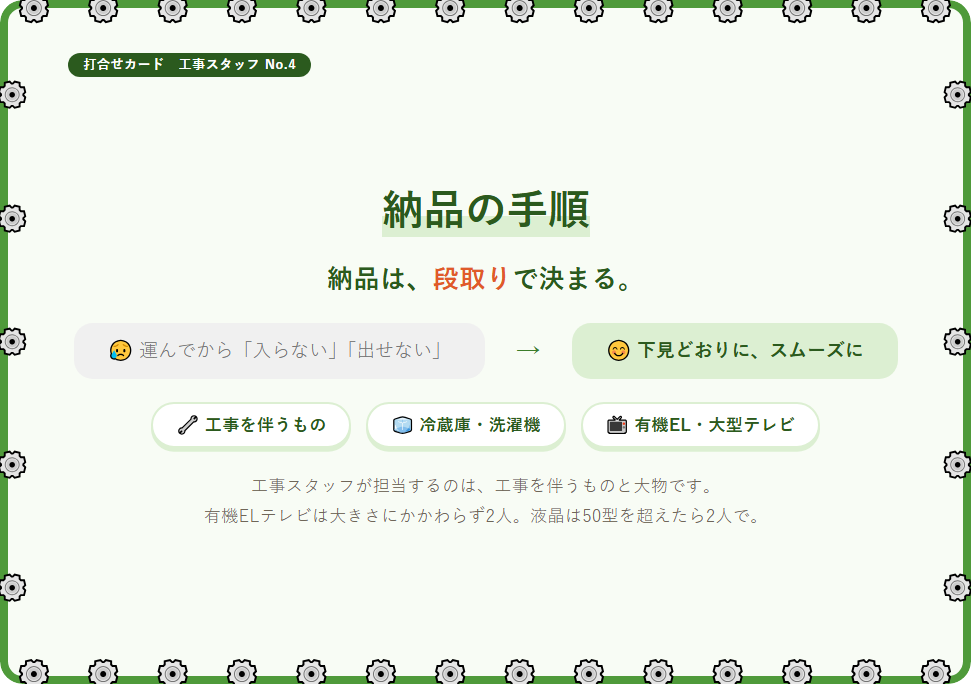
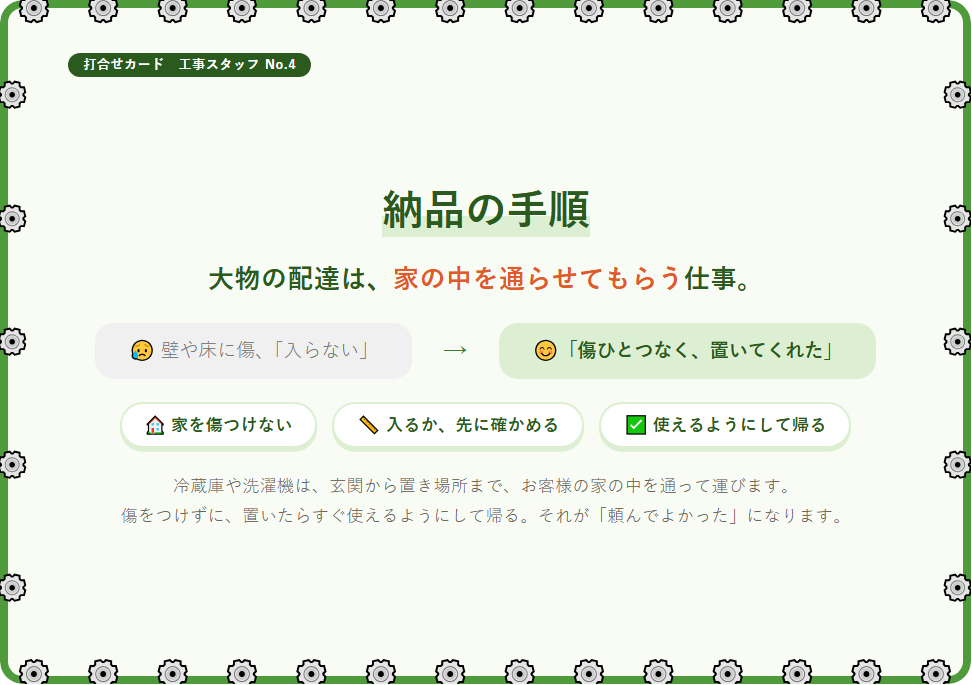
工事カードNo.1〜5（片付け・作業準備・納品・写真）を肝の形に
Claude-Session: https://claude.ai/code/session_01SZNrdcyrN7aKEt1o21LvYk

diff --git a/tools/cards-data.js b/tools/cards-data.js
@@ -383,45 +383,43 @@ module.exports = [
         vals:['🙋 受けた人が、最後まで','🔍 探す時間を、なくす','🤝 工事がすぐ出発できるように'] }
 },
 { no:1, who:'koji', title:'片付け　工具編',
-  why:{ msg:'片付けは、<b>次の工事の準備</b>。',
-        ng:'😥 なくなる・壊れる・錆びる', ok:'😊 次の現場で、すぐ使える',
-        chips:['🔍 数をそろえる','🧽 汚れと水気をふく','🔧 壊れたら、すぐ言う'],
-        one:'ゴミを捨てて終わり、ではありません。<br>道具がそろっていて、きれいで、すぐ使える。そこまでが片付けです。' },
-  how:{ h:'帰ったら、工具をこうする',
-        roles:[ {ic:'🧹',n:'片付け',t:'決まった場所に戻す。数がそろっているか確かめる',bg:'#dcefd2',k:'#2b5a1e'},
-                {ic:'🧽',n:'手入れ',t:'汚れと水気をふく。錆びる前に',bg:'#d9ebfa',k:'#164a7a'},
-                {ic:'🔧',n:'修理・補充',t:'なくした・壊れた・刃が切れないは、その日のうちに報告する',bg:'#fff1c2',k:'#7a4d10'} ] },
-  what:{ h:'毎日やること',
-        memo:['✅ すぐ使える状態にして終わり','腰袋も、車も、倉庫も同じ。'],
-        vals:['🔍 なくなる前に気づく','💧 錆びる前にふく','📣 壊れたら、その日に言う'] }
+  why:{ msg:'道具を大切にする人は、<b>お客様の家も大切にする</b>。',
+        ng:'😥 現場で「あれがない」「動かない」', ok:'😊 いつでも、すぐに、きちんと',
+        chips:['🧰 道具は仕事の相棒','⏱ お客様を待たせない','🛡 けがを防ぐ'],
+        one:'道具がそろっていれば、現場でお客様を待たせません。<br>手入れされた道具は、きれいな仕上がりと、けがのない仕事につながります。' },
+  how:{ h:'どう片付けたら、次の現場が喜ぶ？',
+        roles:[ {ic:'🔍',n:'なくなる前に気づく',t:'戻すときに数える。足りなければ、その日に',bg:'#d9ebfa',k:'#164a7a'},
+                {ic:'🧽',n:'錆びる前に手入れ',t:'汚れと水気をふく。充電しておく',bg:'#dcefd2',k:'#2b5a1e'},
+                {ic:'📣',n:'壊れたら、その日に言う',t:'だまって使い続けない。けがと失敗のもと',bg:'#fff1c2',k:'#7a4d10'} ] },
+  what:{ h:'することは',
+        memo:['📘 やり方は「片付け・工具のメンテナンス」ガイドへ','毎日の片付けと、毎週・毎月の手入れ。'],
+        vals:['✅ すぐ使える状態にして終わり','🚗 腰袋も、車も、倉庫も同じ','🙅 壊れたものは使わない'] }
 },
 { no:2, who:'koji', title:'片付け　材料編',
-  why:{ msg:'材料は、<b>使ったら補充</b>までが片付け。',
-        ng:'😥 使うときに足りなくて、慌てて手配', ok:'😊 いつも予備がある',
-        chips:['📦 減ったら補充','🔢 予備を切らさない','📝 なくなる前に頼む'],
-        one:'材料は、使えば減ります。<br>減ったその日に補充すれば、次の工事で慌てません。' },
-  how:{ h:'帰ったら、材料をこうする',
-        roles:[ {ic:'📦',n:'片付け',t:'残った材料を、決まった場所へ戻す',bg:'#dcefd2',k:'#2b5a1e'},
-                {ic:'🔢',n:'数える',t:'車と倉庫の残りを見る。予備はあるか',bg:'#d9ebfa',k:'#164a7a'},
-                {ic:'📝',n:'補充・発注',t:'倉庫から車へ補充。倉庫にもなければ、注文書を書く',bg:'#fff1c2',k:'#7a4d10'} ] },
-  what:{ h:'毎日やること',
-        memo:['✅ 減ったら、その日に補充して終わり','車も倉庫も、予備を切らさない。'],
-        vals:['🚗 車の中は、いつもそろっている','📦 倉庫の予備が減ったら、注文書を書く','⏰ 使う日に頼むのでは遅い'] }
+  why:{ msg:'材料がそろっていると、<b>1回で終わる</b>。',
+        ng:'😥「材料が足りないので、また来ます」', ok:'😊「1回で全部終わった」',
+        chips:['📦 減ったら補充','⏰ 出直しをなくす','🤝 お客様の時間を大切に'],
+        one:'材料が足りなくて出直すと、お客様はもう一度予定を空けて待つことになります。<br>補充までが片付け。それが、お客様の時間を守ることになります。' },
+  how:{ h:'どう片付けたら、出直しがなくなる？',
+        roles:[ {ic:'📦',n:'使ったら戻して数える',t:'車と倉庫、どちらにいくつあるか',bg:'#d9ebfa',k:'#164a7a'},
+                {ic:'🔢',n:'予備を切らさない',t:'「最後の1つ」を使ったら、すぐ補充',bg:'#dcefd2',k:'#2b5a1e'},
+                {ic:'📝',n:'なくなる前に頼む',t:'使う日に頼むのでは遅い。注文書はその日に',bg:'#fff1c2',k:'#7a4d10'} ] },
+  what:{ h:'することは',
+        memo:['📘 やり方は「片付け・工具のメンテナンス」ガイドへ','材料の片付けと、補充・発注。'],
+        vals:['✅ 減ったら、その日に補充して終わり','🚗 車の中は、いつもそろっている','📝 倉庫になければ注文書'] }
 },
 { no:3, who:'koji', title:'作業準備',
-  why:{ msg:'段取り八分。<b>準備</b>で、仕上がりが決まる。',
-        ng:'😥 始めてから「あれがない」', ok:'😊 準備ができて、作業がスムーズ',
-        chips:['👀 確かめる','🧰 そろえる','🛡 養生する','🧹 掃除する'],
-        one:'作業を始める前の準備で、仕上がりと時間が決まります。<br>養生も掃除も、作業準備のひとつです。' },
-  how:{ h:'始める前に、この5つ',
-        roles:[ {ic:'📦',n:'付属品の確認',t:'箱を開けて、付属品がそろっているか',bg:'#fde2cc',k:'#7a3a0e'},
-                {ic:'👀',n:'確かめる',t:'作業の場所・内容・通り道を、お客様と確かめる',bg:'#d9ebfa',k:'#164a7a'},
-                {ic:'🧰',n:'そろえる',t:'使う道具と材料を、作業場所の近くにそろえる',bg:'#fff1c2',k:'#7a4d10'},
-                {ic:'🛡',n:'養生する',t:'床・角・ドア枠・家具を、マットや毛布で守る',bg:'#dcefd2',k:'#2b5a1e'},
-                {ic:'🧹',n:'掃除する',t:'作業場所を整えてから始める。終わったら元どおりに',bg:'#e8dcf7',k:'#4a2a78'} ] },
-  what:{ h:'毎回やること',
-        memo:['💬 始める前に、ひと声','「床と角を、先に養生しますね」'],
-        vals:['🚗 車を降りる前に、段取りを決める','📦 何度も車に取りに戻らない','✨ 終わったら、来たときより、きれいに'] }
+  why:{ msg:'始める前のひと声が、<b>お客様の安心</b>をつくる。',
+        ng:'😥 いきなり始めて、家具に傷', ok:'😊「ていねいな人が来てくれた」',
+        chips:['🏠 よその家に入らせてもらう','🛡 家を守ってから始める','🙂 最初の印象が決まる'],
+        one:'知らない人が家に入るのは、お客様にとって緊張することです。<br>最初に今日のことを話して、家を守る準備をすると、安心して任せてもらえます。' },
+  how:{ h:'どう始めたら、安心してもらえる？',
+        roles:[ {ic:'🗣',n:'先に話す',t:'今日やること、どのくらいかかるか、どこを通るか',bg:'#d9ebfa',k:'#164a7a'},
+                {ic:'🛡',n:'家を守ってから始める',t:'床・角・家具を養生。「先に養生しますね」とひと声',bg:'#dcefd2',k:'#2b5a1e'},
+                {ic:'🚗',n:'段取りを決めてから入る',t:'何度も出入りしない。玄関の開け閉めもお客様の負担',bg:'#fff1c2',k:'#7a4d10'} ] },
+  what:{ h:'することは',
+        memo:['📘 やり方は「作業準備」ガイドと、各工事の手順書へ','準備編（確かめること・持ち物・現場に着いたら）。'],
+        vals:['💬 始める前に、ひと声','📦 何度も車に取りに戻らない','✨ 終わったら、来たときより、きれいに'] }
 },
 { no:3, who:'himawari', title:'保証切れ前訪問',
   why:{ msg:'保証が切れる前に、<b>ハガキを届ける</b>。',
@@ -659,21 +657,17 @@ module.exports = [
         vals:['📦 付属品は、庫内や扉の中まで見て渡す','🗑 古いものを先に片付ける','🔥 まわりにすき間をあける（熱がこもらないように）','✅ その場で一度動かしてみる'] }
 },
 { no:4, who:'koji', title:'納品の手順',
-  why:{ msg:'納品は、<b>段取り</b>で決まる。',
-        ng:'😥 運んでから「入らない」「出せない」', ok:'😊 下見どおりに、スムーズに',
-        chips:['🔧 工事を伴うもの','🧊 冷蔵庫・洗濯機','📺 有機EL・大型テレビ'],
-        one:'工事スタッフが担当するのは、工事を伴うものと大物です。<br>有機ELテレビは大きさにかかわらず2人。液晶は50型を超えたら2人で。' },
-  how:{ h:'納品の手順',
-        roles:[ {ic:'📦',n:'付属品の確認',t:'箱を開けて、付属品がそろっているか',bg:'#fde2cc',k:'#7a3a0e'},
-                {ic:'📏',n:'搬入経路の確認',t:'通路・ドア・階段の幅と、段差を測る',bg:'#d9ebfa',k:'#164a7a'},
-                {ic:'🛡',n:'養生',t:'玄関から設置場所まで、床と角を守る',bg:'#dcefd2',k:'#2b5a1e'},
-                {ic:'🗑',n:'先に搬出',t:'古いものを先に外して、運び出す',bg:'#fff1c2',k:'#7a4d10'},
-                {ic:'🚚',n:'搬入・設置',t:'水平・すき間・接続を確かめる',bg:'#e8dcf7',k:'#4a2a78'},
-                {ic:'✅',n:'動作確認・取扱説明',t:'一緒に一度動かして、よく使うところを伝える',bg:'#fde2cc',k:'#7a3a0e'},
-                {ic:'🧹',n:'片付け',t:'養生を外して、来たときよりきれいに',bg:'#d9ebfa',k:'#164a7a'} ] },
-  what:{ h:'毎回やること',
-        memo:['📞 置き場所と通り道を先に聞く','測れるときは、下見で測っておく。'],
-        vals:['👥 2人で運ぶものは、2人で伺う','🗑 引き取りの有無を、先に確かめる','💬 動かす家具は、先にひと声'] }
+  why:{ msg:'大物の配達は、<b>家の中を通らせてもらう</b>仕事。',
+        ng:'😥 壁や床に傷、「入らない」', ok:'😊「傷ひとつなく、置いてくれた」',
+        chips:['🏠 家を傷つけない','📏 入るか、先に確かめる','✅ 使えるようにして帰る'],
+        one:'冷蔵庫や洗濯機は、玄関から置き場所まで、お客様の家の中を通って運びます。<br>傷をつけずに、置いたらすぐ使えるようにして帰る。それが「頼んでよかった」になります。' },
+  how:{ h:'どう運んだら、喜ばれる？',
+        roles:[ {ic:'📏',n:'測ってから運ぶ',t:'通路・ドア・階段。運んでから「入らない」にしない',bg:'#d9ebfa',k:'#164a7a'},
+                {ic:'🛡',n:'通り道を守る',t:'玄関から置き場所まで養生。古いものは先に出す',bg:'#dcefd2',k:'#2b5a1e'},
+                {ic:'✅',n:'使えるようにして帰る',t:'置いて終わりではなく、動かして、使い方まで',bg:'#fff1c2',k:'#7a4d10'} ] },
+  what:{ h:'することは',
+        memo:['📘 やり方は家電ごとの配達ガイドへ','テレビ・冷蔵庫・洗濯機・テレビ台。'],
+        vals:['👥 2人で運ぶものは、2人で','🗑 引き取りを先に確かめる','💬 動かす家具は、先にひと声'] }
 },
 { no:2, who:'service', title:'納品の手順',
   why:{ msg:'1人で運べるものも、<b>段取り</b>は同じ。',
@@ -1106,17 +1100,16 @@ module.exports = [
                  {t:'📋 持ち帰ること',c:'#b33',items:['本体の故障 → メーカー修理か買い替えの見積','10年以上なら、買い替えの話も']} ] }
 },
 { no:5, who:'koji', title:'写真の撮り方',
-  why:{ msg:'写真は、<b>あとで見るため</b>に撮る。',
-        ng:'😥 完成だけで、中がわからない', ok:'😊 あとで見ても、全部わかる',
-        chips:['📷 作業前','📷 途中','📷 完了'],
-        one:'壁の中や天井裏は、工事が終わると見えなくなります。<br>次に伺う人や、修理のときのために、途中も残しておきます。' },
-  how:{ h:'撮るところ',
-        roles:[ {ic:'🏠',n:'作業前',t:'設置場所・古い機器・まわりの様子',bg:'#d9ebfa',k:'#164a7a'},
-                {ic:'🔧',n:'途中',t:'配線・配管・接続部など、終わると見えなくなるところ',bg:'#dcefd2',k:'#2b5a1e'},
-                {ic:'✅',n:'完了',t:'仕上がりを、正面と横から',bg:'#fff1c2',k:'#7a4d10'},
-                {ic:'🏷',n:'型番',t:'新しい機器と、外した機器の銘板',bg:'#e8dcf7',k:'#4a2a78'} ] },
-  what:{ h:'撮るときは',
-        memo:['📱 日報に写真をつけて送る','タグを合わせておくと、あとで探しやすい。'],
-        vals:['📐 全体と近く、両方撮る','💡 暗いところは、ライトで照らす','🙏 お客様の顔や持ち物は、写さないように'] }
+  why:{ msg:'写真は、<b>その家の記録</b>。次に伺う人への手紙。',
+        ng:'😥「前はどうなってた？」が分からない', ok:'😊「写真があるから、すぐ分かる」',
+        chips:['🔁 次に伺う人のために','🔧 修理のときに','🤝 お客様の安心'],
+        one:'壁の中や天井裏は、工事が終わると見えなくなります。<br>写真があれば、何年たっても、だれが伺っても、その家のことが分かります。' },
+  how:{ h:'どう撮ったら、あとで役に立つ？',
+        roles:[ {ic:'📷',n:'見えなくなるところを残す',t:'配線・配管・つなぎ目。終わったら見えないところ',bg:'#d9ebfa',k:'#164a7a'},
+                {ic:'🏷',n:'型番を残す',t:'新しい機器と、外した機器の銘板',bg:'#dcefd2',k:'#2b5a1e'},
+                {ic:'🙏',n:'お客様のくらしは写さない',t:'顔・持ち物・部屋の様子は写さない',bg:'#fff1c2',k:'#7a4d10'} ] },
+  what:{ h:'することは',
+        memo:['📘 やり方は「写真の撮り方」ガイドへ','作業前・途中・完了・型番。'],
+        vals:['📐 全体と近く、両方撮る','💡 暗いところはライトで','📱 業務日報につけて送る'] }
 }
 ];

diff --git a/card-koji-4.html b/card-koji-4.html
@@ -6,7 +6,7 @@
 <title>打合せカード4 納品の手順｜ヤハタ電機商会</title>
 <meta property="og:type" content="website">
 <meta property="og:title" content="工事スタッフカード　納品の手順">
-<meta property="og:description" content="納品は、段取りで決まる。">
+<meta property="og:description" content="大物の配達は、家の中を通らせてもらう仕事。">
 <meta property="og:image" content="https://yahatadennki.github.io/report/img/card-koji-4.png">
 <meta property="og:url" content="https://yahatadennki.github.io/report/card-koji-4.html">
 <meta name="twitter:card" content="summary_large_image">
@@ -101,10 +101,10 @@
   <div class="top"><span class="no">打合せカード　工事スタッフ No.4</span><span></span></div>
   <div class="front">
     <h1><em>納品の手順</em></h1>
-    <p class="msg">納品は、<b>段取り</b>で決まる。</p>
-    <div class="vs"><div class="ng">😥 運んでから「入らない」「出せない」</div><div class="ar">→</div><div class="ok">😊 下見どおりに、スムーズに</div></div>
-    <div class="chips"><span>🔧 工事を伴うもの</span><span>🧊 冷蔵庫・洗濯機</span><span>📺 有機EL・大型テレビ</span></div>
-    <p class="one">工事スタッフが担当するのは、工事を伴うものと大物です。<br>有機ELテレビは大きさにかかわらず2人。液晶は50型を超えたら2人で。</p>
+    <p class="msg">大物の配達は、<b>家の中を通らせてもらう</b>仕事。</p>
+    <div class="vs"><div class="ng">😥 壁や床に傷、「入らない」</div><div class="ar">→</div><div class="ok">😊「傷ひとつなく、置いてくれた」</div></div>
+    <div class="chips"><span>🏠 家を傷つけない</span><span>📏 入るか、先に確かめる</span><span>✅ 使えるようにして帰る</span></div>
+    <p class="one">冷蔵庫や洗濯機は、玄関から置き場所まで、お客様の家の中を通って運びます。<br>傷をつけずに、置いたらすぐ使えるようにして帰る。それが「頼んでよかった」になります。</p>
   </div>
 </div>
 
@@ -118,14 +118,14 @@
   <div class="top"><span class="no">打合せカード　工事スタッフ No.4　納品の手順</span><span></span></div>
   <div class="back">
     <div class="box">
-      <h2>納品の手順</h2>
-      <div class="roles sm"><div class="role" style="--rc:#fde2cc;--rk:#7a3a0e"><span class="e">📦</span><div><div class="n">付属品の確認</div><div class="x">箱を開けて、付属品がそろっているか</div></div></div><div class="role" style="--rc:#d9ebfa;--rk:#164a7a"><span class="e">📏</span><div><div class="n">搬入経路の確認</div><div class="x">通路・ドア・階段の幅と、段差を測る</div></div></div><div class="role" style="--rc:#dcefd2;--rk:#2b5a1e"><span class="e">🛡</span><div><div class="n">養生</div><div class="x">玄関から設置場所まで、床と角を守る</div></div></div><div class="role" style="--rc:#fff1c2;--rk:#7a4d10"><span class="e">🗑</span><div><div class="n">先に搬出</div><div class="x">古いものを先に外して、運び出す</div></div></div><div class="role" style="--rc:#e8dcf7;--rk:#4a2a78"><span class="e">🚚</span><div><div class="n">搬入・設置</div><div class="x">水平・すき間・接続を確かめる</div></div></div><div class="role" style="--rc:#fde2cc;--rk:#7a3a0e"><span class="e">✅</span><div><div class="n">動作確認・取扱説明</div><div class="x">一緒に一度動かして、よく使うところを伝える</div></div></div><div class="role" style="--rc:#d9ebfa;--rk:#164a7a"><span class="e">🧹</span><div><div class="n">片付け</div><div class="x">養生を外して、来たときよりきれいに</div></div></div></div>
+      <h2>どう運んだら、喜ばれる？</h2>
+      <div class="roles"><div class="role" style="--rc:#d9ebfa;--rk:#164a7a"><span class="e">📏</span><div><div class="n">測ってから運ぶ</div><div class="x">通路・ドア・階段。運んでから「入らない」にしない</div></div></div><div class="role" style="--rc:#dcefd2;--rk:#2b5a1e"><span class="e">🛡</span><div><div class="n">通り道を守る</div><div class="x">玄関から置き場所まで養生。古いものは先に出す</div></div></div><div class="role" style="--rc:#fff1c2;--rk:#7a4d10"><span class="e">✅</span><div><div class="n">使えるようにして帰る</div><div class="x">置いて終わりではなく、動かして、使い方まで</div></div></div></div>
 
     </div>
     <div class="box">
-      <h2>毎回やること</h2>
-      <div class="memo"><b>📞 置き場所と通り道を先に聞く</b><p>測れるときは、下見で測っておく。</p></div>
-      <ul class="vals"><li>👥 2人で運ぶものは、2人で伺う</li><li>🗑 引き取りの有無を、先に確かめる</li><li>💬 動かす家具は、先にひと声</li></ul>
+      <h2>することは</h2>
+      <div class="memo"><b>📘 やり方は家電ごとの配達ガイドへ</b><p>テレビ・冷蔵庫・洗濯機・テレビ台。</p></div>
+      <ul class="vals"><li>👥 2人で運ぶものは、2人で</li><li>🗑 引き取りを先に確かめる</li><li>💬 動かす家具は、先にひと声</li></ul>
 
     </div>
   </div>

diff --git a/card-koji-3.html b/card-koji-3.html
@@ -6,7 +6,7 @@
 <title>打合せカード3 作業準備｜ヤハタ電機商会</title>
 <meta property="og:type" content="website">
 <meta property="og:title" content="工事スタッフカード　作業準備">
-<meta property="og:description" content="段取り八分。準備で、仕上がりが決まる。">
+<meta property="og:description" content="始める前のひと声が、お客様の安心をつくる。">
 <meta property="og:image" content="https://yahatadennki.github.io/report/img/card-koji-3.png">
 <meta property="og:url" content="https://yahatadennki.github.io/report/card-koji-3.html">
 <meta name="twitter:card" content="summary_large_image">
@@ -101,10 +101,10 @@
   <div class="top"><span class="no">打合せカード　工事スタッフ No.3</span><span></span></div>
   <div class="front">
     <h1><em>作業準備</em></h1>
-    <p class="msg">段取り八分。<b>準備</b>で、仕上がりが決まる。</p>
-    <div class="vs"><div class="ng">😥 始めてから「あれがない」</div><div class="ar">→</div><div class="ok">😊 準備ができて、作業がスムーズ</div></div>
-    <div class="chips"><span>👀 確かめる</span><span>🧰 そろえる</span><span>🛡 養生する</span><span>🧹 掃除する</span></div>
-    <p class="one">作業を始める前の準備で、仕上がりと時間が決まります。<br>養生も掃除も、作業準備のひとつです。</p>
+    <p class="msg">始める前のひと声が、<b>お客様の安心</b>をつくる。</p>
+    <div class="vs"><div class="ng">😥 いきなり始めて、家具に傷</div><div class="ar">→</div><div class="ok">😊「ていねいな人が来てくれた」</div></div>
+    <div class="chips"><span>🏠 よその家に入らせてもらう</span><span>🛡 家を守ってから始める</span><span>🙂 最初の印象が決まる</span></div>
+    <p class="one">知らない人が家に入るのは、お客様にとって緊張することです。<br>最初に今日のことを話して、家を守る準備をすると、安心して任せてもらえます。</p>
   </div>
 </div>
 
@@ -118,14 +118,14 @@
   <div class="top"><span class="no">打合せカード　工事スタッフ No.3　作業準備</span><span></span></div>
   <div class="back">
     <div class="box">
-      <h2>始める前に、この5つ</h2>
-      <div class="roles sm"><div class="role" style="--rc:#fde2cc;--rk:#7a3a0e"><span class="e">📦</span><div><div class="n">付属品の確認</div><div class="x">箱を開けて、付属品がそろっているか</div></div></div><div class="role" style="--rc:#d9ebfa;--rk:#164a7a"><span class="e">👀</span><div><div class="n">確かめる</div><div class="x">作業の場所・内容・通り道を、お客様と確かめる</div></div></div><div class="role" style="--rc:#fff1c2;--rk:#7a4d10"><span class="e">🧰</span><div><div class="n">そろえる</div><div class="x">使う道具と材料を、作業場所の近くにそろえる</div></div></div><div class="role" style="--rc:#dcefd2;--rk:#2b5a1e"><span class="e">🛡</span><div><div class="n">養生する</div><div class="x">床・角・ドア枠・家具を、マットや毛布で守る</div></div></div><div class="role" style="--rc:#e8dcf7;--rk:#4a2a78"><span class="e">🧹</span><div><div class="n">掃除する</div><div class="x">作業場所を整えてから始める。終わったら元どおりに</div></div></div></div>
+      <h2>どう始めたら、安心してもらえる？</h2>
+      <div class="roles"><div class="role" style="--rc:#d9ebfa;--rk:#164a7a"><span class="e">🗣</span><div><div class="n">先に話す</div><div class="x">今日やること、どのくらいかかるか、どこを通るか</div></div></div><div class="role" style="--rc:#dcefd2;--rk:#2b5a1e"><span class="e">🛡</span><div><div class="n">家を守ってから始める</div><div class="x">床・角・家具を養生。「先に養生しますね」とひと声</div></div></div><div class="role" style="--rc:#fff1c2;--rk:#7a4d10"><span class="e">🚗</span><div><div class="n">段取りを決めてから入る</div><div class="x">何度も出入りしない。玄関の開け閉めもお客様の負担</div></div></div></div>
 
     </div>
     <div class="box">
-      <h2>毎回やること</h2>
-      <div class="memo"><b>💬 始める前に、ひと声</b><p>「床と角を、先に養生しますね」</p></div>
-      <ul class="vals"><li>🚗 車を降りる前に、段取りを決める</li><li>📦 何度も車に取りに戻らない</li><li>✨ 終わったら、来たときより、きれいに</li></ul>
+      <h2>することは</h2>
+      <div class="memo"><b>📘 やり方は「作業準備」ガイドと、各工事の手順書へ</b><p>準備編（確かめること・持ち物・現場に着いたら）。</p></div>
+      <ul class="vals"><li>💬 始める前に、ひと声</li><li>📦 何度も車に取りに戻らない</li><li>✨ 終わったら、来たときより、きれいに</li></ul>
 
     </div>
   </div>

diff --git a/card-koji-5.html b/card-koji-5.html
@@ -6,7 +6,7 @@
 <title>打合せカード5 写真の撮り方｜ヤハタ電機商会</title>
 <meta property="og:type" content="website">
 <meta property="og:title" content="工事スタッフカード　写真の撮り方">
-<meta property="og:description" content="写真は、あとで見るために撮る。">
+<meta property="og:description" content="写真は、その家の記録。次に伺う人への手紙。">
 <meta property="og:image" content="https://yahatadennki.github.io/report/img/card-koji-5.png">
 <meta property="og:url" content="https://yahatadennki.github.io/report/card-koji-5.html">
 <meta name="twitter:card" content="summary_large_image">
@@ -101,10 +101,10 @@
   <div class="top"><span class="no">打合せカード　工事スタッフ No.5</span><span></span></div>
   <div class="front">
     <h1><em>写真の撮り方</em></h1>
-    <p class="msg">写真は、<b>あとで見るため</b>に撮る。</p>
-    <div class="vs"><div class="ng">😥 完成だけで、中がわからない</div><div class="ar">→</div><div class="ok">😊 あとで見ても、全部わかる</div></div>
-    <div class="chips"><span>📷 作業前</span><span>📷 途中</span><span>📷 完了</span></div>
-    <p class="one">壁の中や天井裏は、工事が終わると見えなくなります。<br>次に伺う人や、修理のときのために、途中も残しておきます。</p>
+    <p class="msg">写真は、<b>その家の記録</b>。次に伺う人への手紙。</p>
+    <div class="vs"><div class="ng">😥「前はどうなってた？」が分からない</div><div class="ar">→</div><div class="ok">😊「写真があるから、すぐ分かる」</div></div>
+    <div class="chips"><span>🔁 次に伺う人のために</span><span>🔧 修理のときに</span><span>🤝 お客様の安心</span></div>
+    <p class="one">壁の中や天井裏は、工事が終わると見えなくなります。<br>写真があれば、何年たっても、だれが伺っても、その家のことが分かります。</p>
   </div>
 </div>
 
@@ -118,14 +118,14 @@
   <div class="top"><span class="no">打合せカード　工事スタッフ No.5　写真の撮り方</span><span></span></div>
   <div class="back">
     <div class="box">
-      <h2>撮るところ</h2>
-      <div class="roles"><div class="role" style="--rc:#d9ebfa;--rk:#164a7a"><span class="e">🏠</span><div><div class="n">作業前</div><div class="x">設置場所・古い機器・まわりの様子</div></div></div><div class="role" style="--rc:#dcefd2;--rk:#2b5a1e"><span class="e">🔧</span><div><div class="n">途中</div><div class="x">配線・配管・接続部など、終わると見えなくなるところ</div></div></div><div class="role" style="--rc:#fff1c2;--rk:#7a4d10"><span class="e">✅</span><div><div class="n">完了</div><div class="x">仕上がりを、正面と横から</div></div></div><div class="role" style="--rc:#e8dcf7;--rk:#4a2a78"><span class="e">🏷</span><div><div class="n">型番</div><div class="x">新しい機器と、外した機器の銘板</div></div></div></div>
+      <h2>どう撮ったら、あとで役に立つ？</h2>
+      <div class="roles"><div class="role" style="--rc:#d9ebfa;--rk:#164a7a"><span class="e">📷</span><div><div class="n">見えなくなるところを残す</div><div class="x">配線・配管・つなぎ目。終わったら見えないところ</div></div></div><div class="role" style="--rc:#dcefd2;--rk:#2b5a1e"><span class="e">🏷</span><div><div class="n">型番を残す</div><div class="x">新しい機器と、外した機器の銘板</div></div></div><div class="role" style="--rc:#fff1c2;--rk:#7a4d10"><span class="e">🙏</span><div><div class="n">お客様のくらしは写さない</div><div class="x">顔・持ち物・部屋の様子は写さない</div></div></div></div>
 
     </div>
     <div class="box">
-      <h2>撮るときは</h2>
-      <div class="memo"><b>📱 日報に写真をつけて送る</b><p>タグを合わせておくと、あとで探しやすい。</p></div>
-      <ul class="vals"><li>📐 全体と近く、両方撮る</li><li>💡 暗いところは、ライトで照らす</li><li>🙏 お客様の顔や持ち物は、写さないように</li></ul>
+      <h2>することは</h2>
+      <div class="memo"><b>📘 やり方は「写真の撮り方」ガイドへ</b><p>作業前・途中・完了・型番。</p></div>
+      <ul class="vals"><li>📐 全体と近く、両方撮る</li><li>💡 暗いところはライトで</li><li>📱 業務日報につけて送る</li></ul>
 
     </div>
   </div>

diff --git a/card-koji-1.html b/card-koji-1.html
@@ -6,7 +6,7 @@
 <title>打合せカード1 片付け　工具編｜ヤハタ電機商会</title>
 <meta property="og:type" content="website">
 <meta property="og:title" content="工事スタッフカード　片付け　工具編">
-<meta property="og:description" content="片付けは、次の工事の準備。">
+<meta property="og:description" content="道具を大切にする人は、お客様の家も大切にする。">
 <meta property="og:image" content="https://yahatadennki.github.io/report/img/card-koji-1.png">
 <meta property="og:url" content="https://yahatadennki.github.io/report/card-koji-1.html">
 <meta name="twitter:card" content="summary_large_image">
@@ -101,10 +101,10 @@
   <div class="top"><span class="no">打合せカード　工事スタッフ No.1</span><span></span></div>
   <div class="front">
     <h1><em>片付け　工具編</em></h1>
-    <p class="msg">片付けは、<b>次の工事の準備</b>。</p>
-    <div class="vs"><div class="ng">😥 なくなる・壊れる・錆びる</div><div class="ar">→</div><div class="ok">😊 次の現場で、すぐ使える</div></div>
-    <div class="chips"><span>🔍 数をそろえる</span><span>🧽 汚れと水気をふく</span><span>🔧 壊れたら、すぐ言う</span></div>
-    <p class="one">ゴミを捨てて終わり、ではありません。<br>道具がそろっていて、きれいで、すぐ使える。そこまでが片付けです。</p>
+    <p class="msg">道具を大切にする人は、<b>お客様の家も大切にする</b>。</p>
+    <div class="vs"><div class="ng">😥 現場で「あれがない」「動かない」</div><div class="ar">→</div><div class="ok">😊 いつでも、すぐに、きちんと</div></div>
+    <div class="chips"><span>🧰 道具は仕事の相棒</span><span>⏱ お客様を待たせない</span><span>🛡 けがを防ぐ</span></div>
+    <p class="one">道具がそろっていれば、現場でお客様を待たせません。<br>手入れされた道具は、きれいな仕上がりと、けがのない仕事につながります。</p>
   </div>
 </div>
 
@@ -118,14 +118,14 @@
   <div class="top"><span class="no">打合せカード　工事スタッフ No.1　片付け　工具編</span><span></span></div>
   <div class="back">
     <div class="box">
-      <h2>帰ったら、工具をこうする</h2>
-      <div class="roles"><div class="role" style="--rc:#dcefd2;--rk:#2b5a1e"><span class="e">🧹</span><div><div class="n">片付け</div><div class="x">決まった場所に戻す。数がそろっているか確かめる</div></div></div><div class="role" style="--rc:#d9ebfa;--rk:#164a7a"><span class="e">🧽</span><div><div class="n">手入れ</div><div class="x">汚れと水気をふく。錆びる前に</div></div></div><div class="role" style="--rc:#fff1c2;--rk:#7a4d10"><span class="e">🔧</span><div><div class="n">修理・補充</div><div class="x">なくした・壊れた・刃が切れないは、その日のうちに報告する</div></div></div></div>
+      <h2>どう片付けたら、次の現場が喜ぶ？</h2>
+      <div class="roles"><div class="role" style="--rc:#d9ebfa;--rk:#164a7a"><span class="e">🔍</span><div><div class="n">なくなる前に気づく</div><div class="x">戻すときに数える。足りなければ、その日に</div></div></div><div class="role" style="--rc:#dcefd2;--rk:#2b5a1e"><span class="e">🧽</span><div><div class="n">錆びる前に手入れ</div><div class="x">汚れと水気をふく。充電しておく</div></div></div><div class="role" style="--rc:#fff1c2;--rk:#7a4d10"><span class="e">📣</span><div><div class="n">壊れたら、その日に言う</div><div class="x">だまって使い続けない。けがと失敗のもと</div></div></div></div>
 
     </div>
     <div class="box">
-      <h2>毎日やること</h2>
-      <div class="memo"><b>✅ すぐ使える状態にして終わり</b><p>腰袋も、車も、倉庫も同じ。</p></div>
-      <ul class="vals"><li>🔍 なくなる前に気づく</li><li>💧 錆びる前にふく</li><li>📣 壊れたら、その日に言う</li></ul>
+      <h2>することは</h2>
+      <div class="memo"><b>📘 やり方は「片付け・工具のメンテナンス」ガイドへ</b><p>毎日の片付けと、毎週・毎月の手入れ。</p></div>
+      <ul class="vals"><li>✅ すぐ使える状態にして終わり</li><li>🚗 腰袋も、車も、倉庫も同じ</li><li>🙅 壊れたものは使わない</li></ul>
 
     </div>
   </div>

diff --git a/card-koji-2.html b/card-koji-2.html
@@ -6,7 +6,7 @@
 <title>打合せカード2 片付け　材料編｜ヤハタ電機商会</title>
 <meta property="og:type" content="website">
 <meta property="og:title" content="工事スタッフカード　片付け　材料編">
-<meta property="og:description" content="材料は、使ったら補充までが片付け。">
+<meta property="og:description" content="材料がそろっていると、1回で終わる。">
 <meta property="og:image" content="https://yahatadennki.github.io/report/img/card-koji-2.png">
 <meta property="og:url" content="https://yahatadennki.github.io/report/card-koji-2.html">
 <meta name="twitter:card" content="summary_large_image">
@@ -101,10 +101,10 @@
   <div class="top"><span class="no">打合せカード　工事スタッフ No.2</span><span></span></div>
   <div class="front">
     <h1><em>片付け　材料編</em></h1>
-    <p class="msg">材料は、<b>使ったら補充</b>までが片付け。</p>
-    <div class="vs"><div class="ng">😥 使うときに足りなくて、慌てて手配</div><div class="ar">→</div><div class="ok">😊 いつも予備がある</div></div>
-    <div class="chips"><span>📦 減ったら補充</span><span>🔢 予備を切らさない</span><span>📝 なくなる前に頼む</span></div>
-    <p class="one">材料は、使えば減ります。<br>減ったその日に補充すれば、次の工事で慌てません。</p>
+    <p class="msg">材料がそろっていると、<b>1回で終わる</b>。</p>
+    <div class="vs"><div class="ng">😥「材料が足りないので、また来ます」</div><div class="ar">→</div><div class="ok">😊「1回で全部終わった」</div></div>
+    <div class="chips"><span>📦 減ったら補充</span><span>⏰ 出直しをなくす</span><span>🤝 お客様の時間を大切に</span></div>
+    <p class="one">材料が足りなくて出直すと、お客様はもう一度予定を空けて待つことになります。<br>補充までが片付け。それが、お客様の時間を守ることになります。</p>
   </div>
 </div>
 
@@ -118,14 +118,14 @@
   <div class="top"><span class="no">打合せカード　工事スタッフ No.2　片付け　材料編</span><span></span></div>
   <div class="back">
     <div class="box">
-      <h2>帰ったら、材料をこうする</h2>
-      <div class="roles"><div class="role" style="--rc:#dcefd2;--rk:#2b5a1e"><span class="e">📦</span><div><div class="n">片付け</div><div class="x">残った材料を、決まった場所へ戻す</div></div></div><div class="role" style="--rc:#d9ebfa;--rk:#164a7a"><span class="e">🔢</span><div><div class="n">数える</div><div class="x">車と倉庫の残りを見る。予備はあるか</div></div></div><div class="role" style="--rc:#fff1c2;--rk:#7a4d10"><span class="e">📝</span><div><div class="n">補充・発注</div><div class="x">倉庫から車へ補充。倉庫にもなければ、注文書を書く</div></div></div></div>
+      <h2>どう片付けたら、出直しがなくなる？</h2>
+      <div class="roles"><div class="role" style="--rc:#d9ebfa;--rk:#164a7a"><span class="e">📦</span><div><div class="n">使ったら戻して数える</div><div class="x">車と倉庫、どちらにいくつあるか</div></div></div><div class="role" style="--rc:#dcefd2;--rk:#2b5a1e"><span class="e">🔢</span><div><div class="n">予備を切らさない</div><div class="x">「最後の1つ」を使ったら、すぐ補充</div></div></div><div class="role" style="--rc:#fff1c2;--rk:#7a4d10"><span class="e">📝</span><div><div class="n">なくなる前に頼む</div><div class="x">使う日に頼むのでは遅い。注文書はその日に</div></div></div></div>
 
     </div>
     <div class="box">
-      <h2>毎日やること</h2>
-      <div class="memo"><b>✅ 減ったら、その日に補充して終わり</b><p>車も倉庫も、予備を切らさない。</p></div>
-      <ul class="vals"><li>🚗 車の中は、いつもそろっている</li><li>📦 倉庫の予備が減ったら、注文書を書く</li><li>⏰ 使う日に頼むのでは遅い</li></ul>
+      <h2>することは</h2>
+      <div class="memo"><b>📘 やり方は「片付け・工具のメンテナンス」ガイドへ</b><p>材料の片付けと、補充・発注。</p></div>
+      <ul class="vals"><li>✅ 減ったら、その日に補充して終わり</li><li>🚗 車の中は、いつもそろっている</li><li>📝 倉庫になければ注文書</li></ul>
 
     </div>
   </div>
